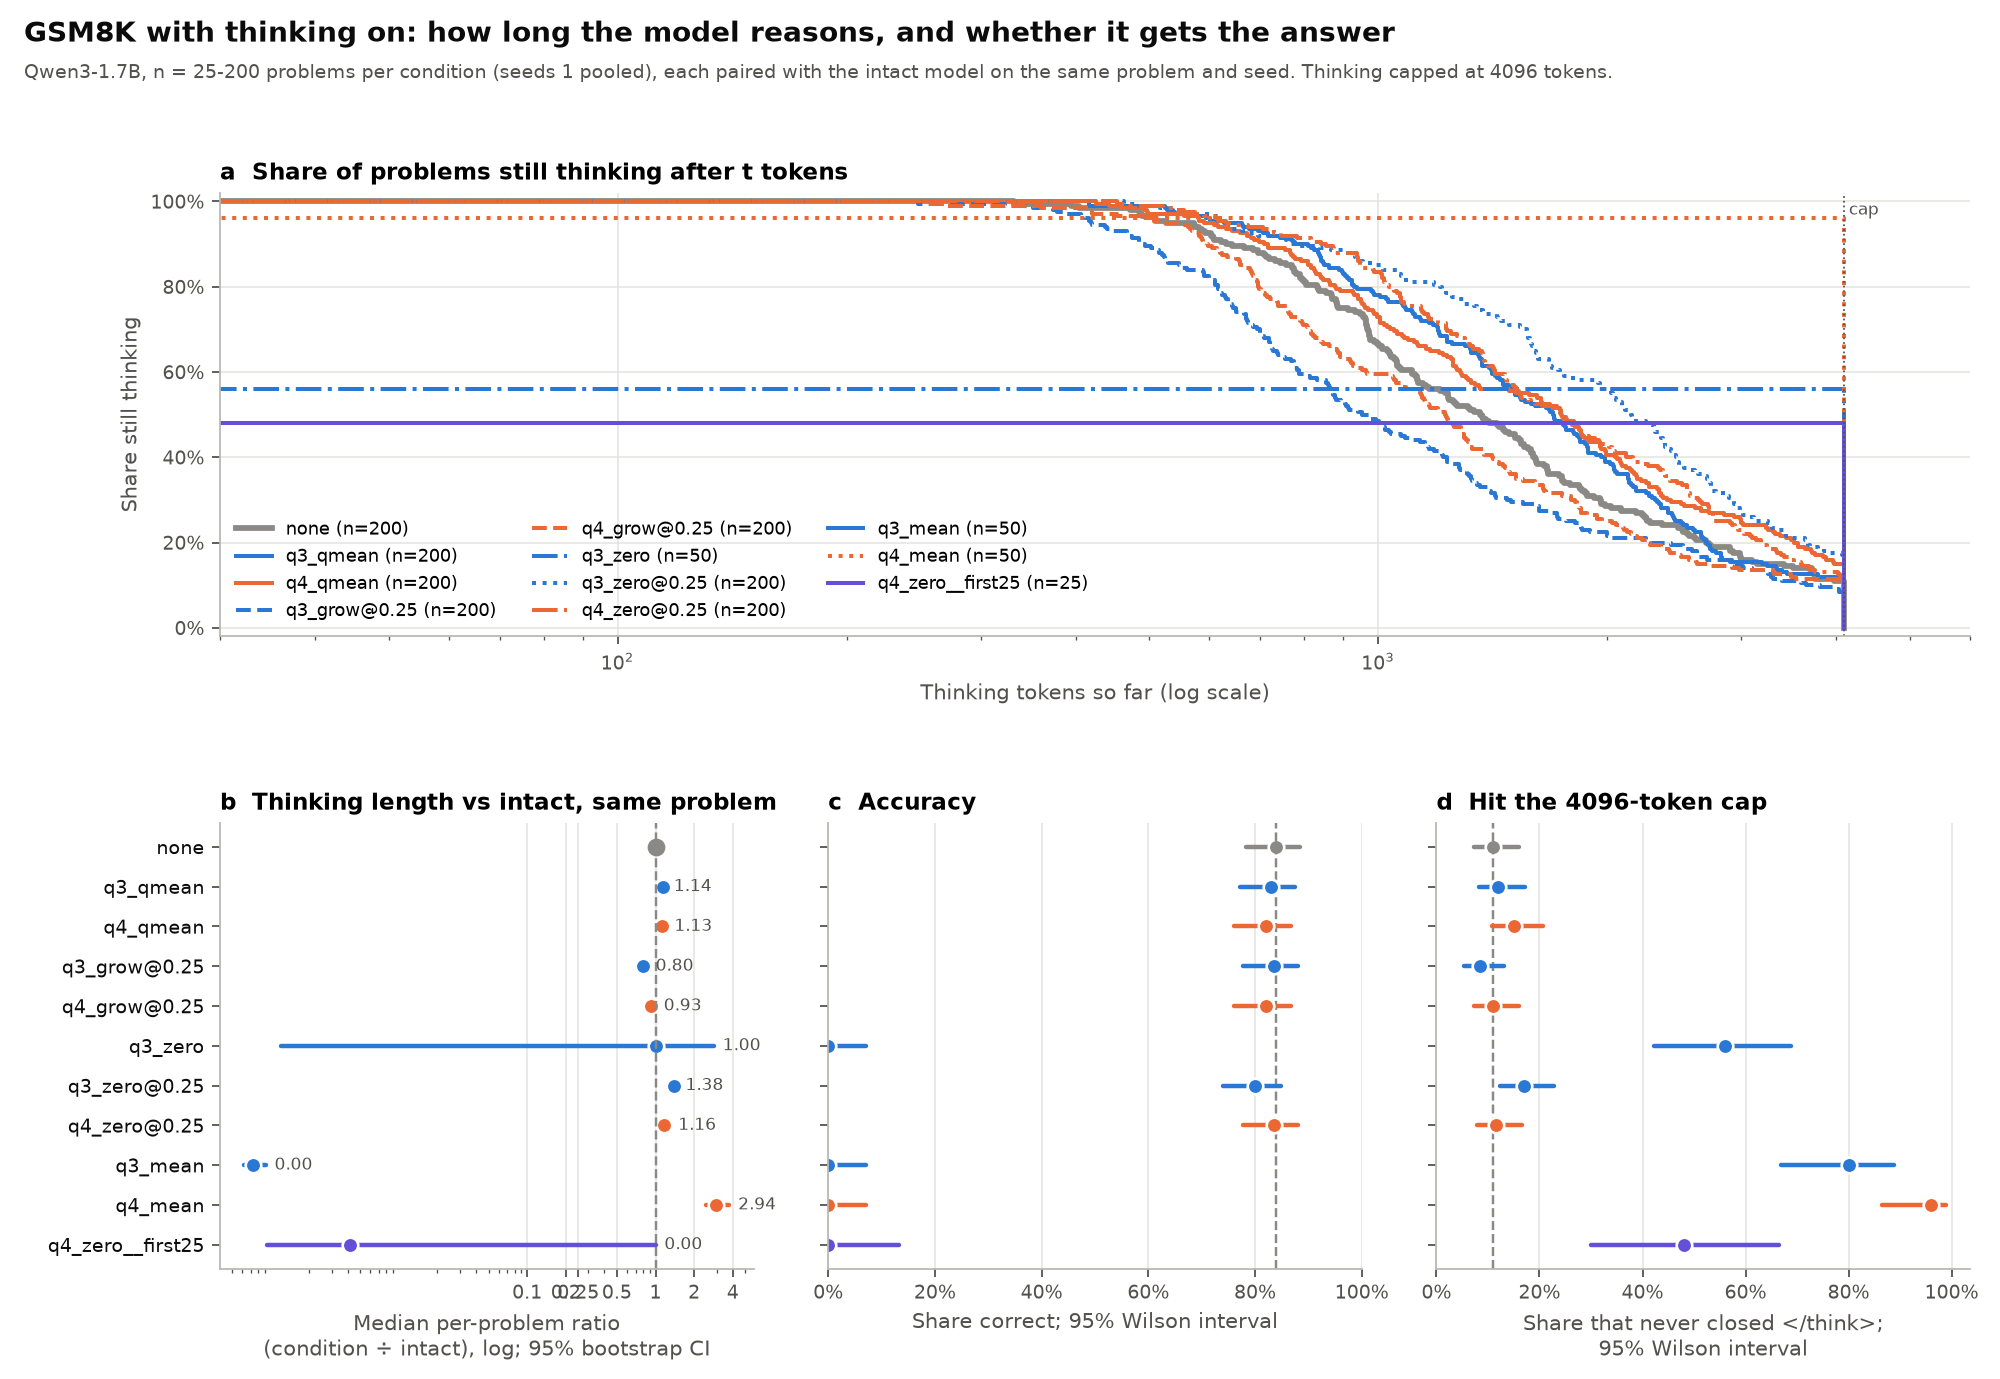
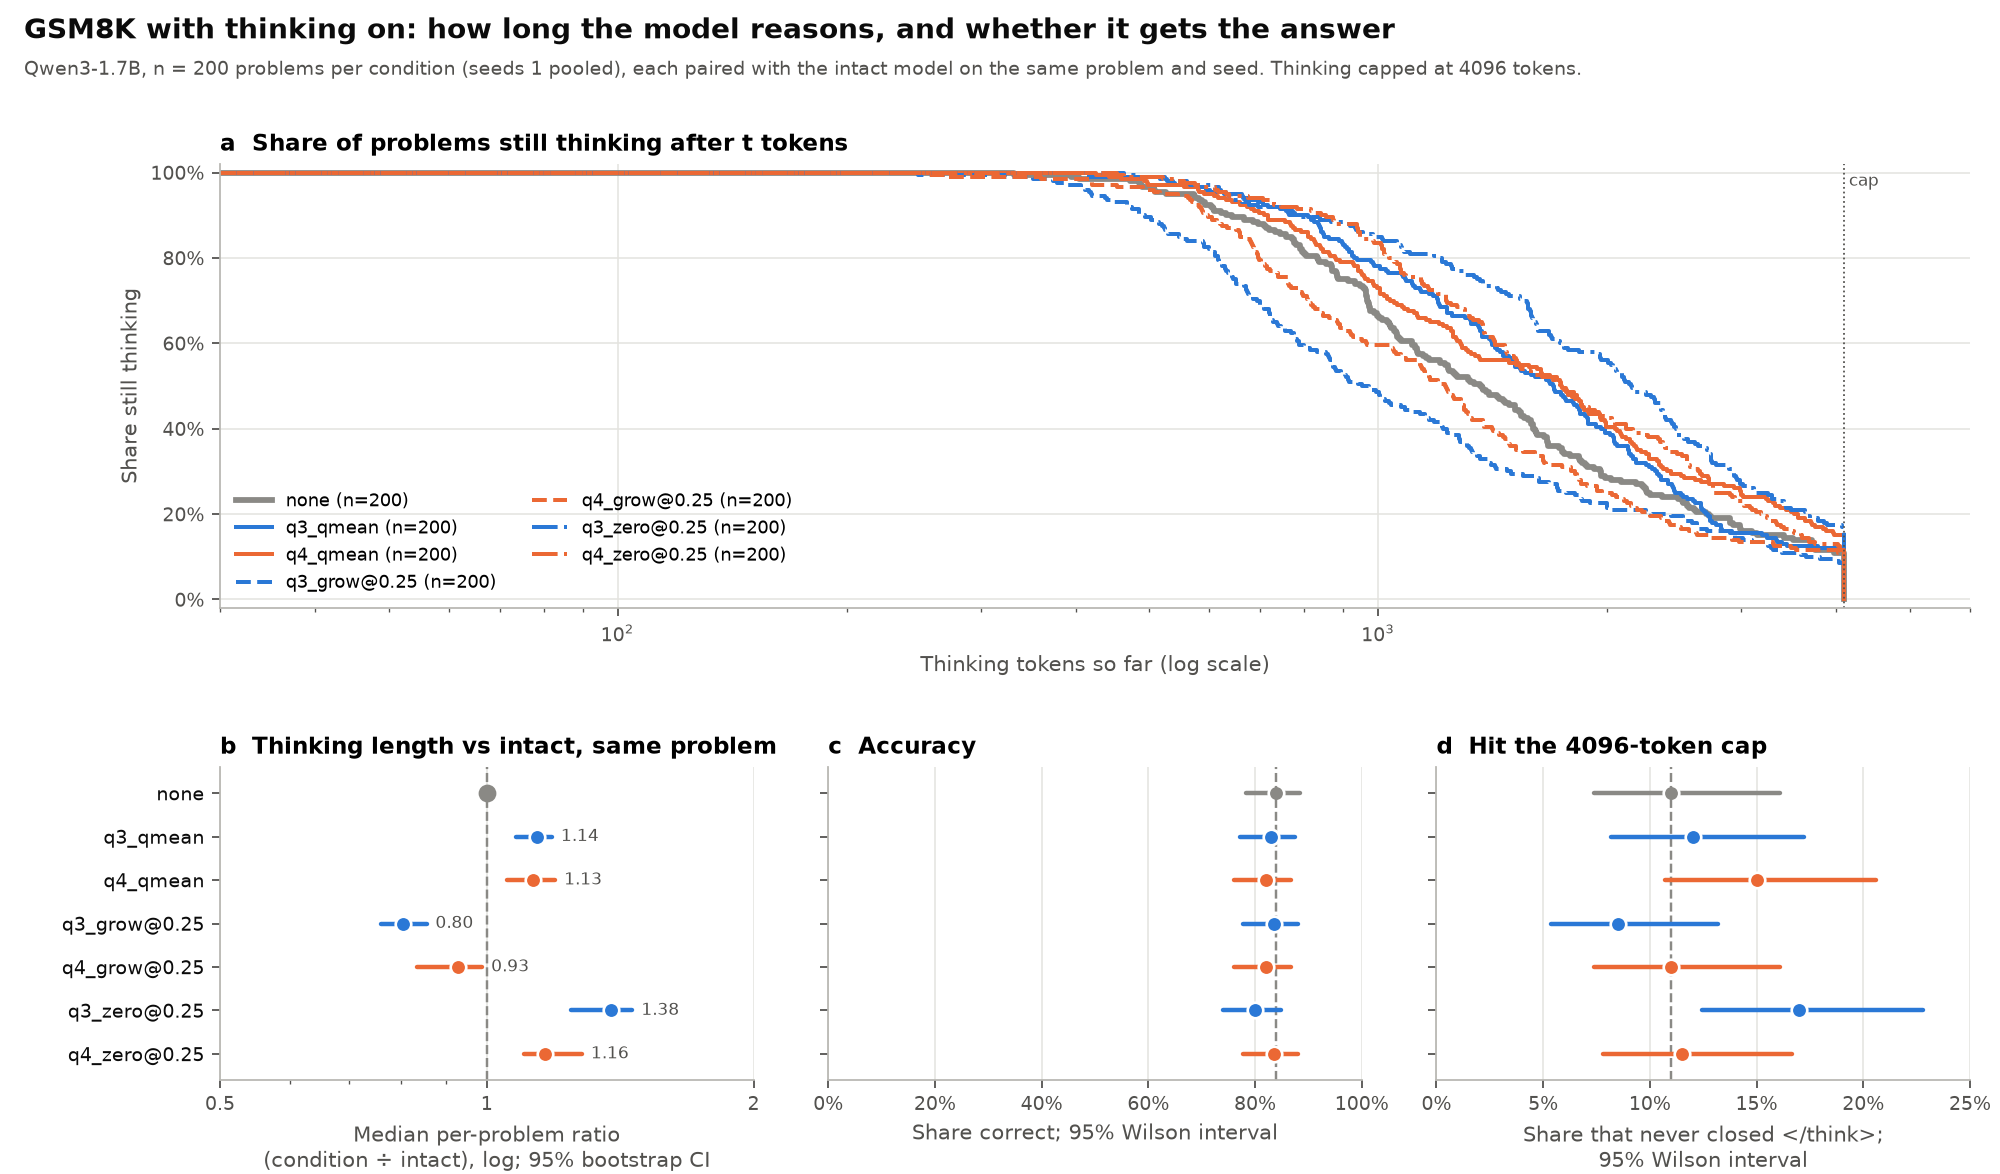
fig3: show only edits that pass the damage gate

diff --git a/make_figures.py b/make_figures.py
@@ -324,7 +324,12 @@ def fig3_generation(folder: Path, out_dir: Path):
     base = variants.get("none")
     if not base:
         return skip(name, "no thinking-on baseline (none__seed<k>.jsonl)")
-    conds = sorted([v for v in variants if v != "none" and variants[v]], key=condition_sort_key)
+    # Edits that fail the damage gate (broken model) are shown in fig6, not here.
+    dmg_path = folder / "damage.json"
+    dmg = json.loads(dmg_path.read_text()) if dmg_path.exists() else {}
+    broken = {c for c, d in dmg.items() if d.get("passes_gate") is False}
+    conds = sorted([v for v in variants if v != "none" and variants[v]
+                    and v.split("__")[0] not in broken], key=condition_sort_key)
     if not conds:
         return skip(name, "baseline exists but no thinking-on condition runs yet")
 
